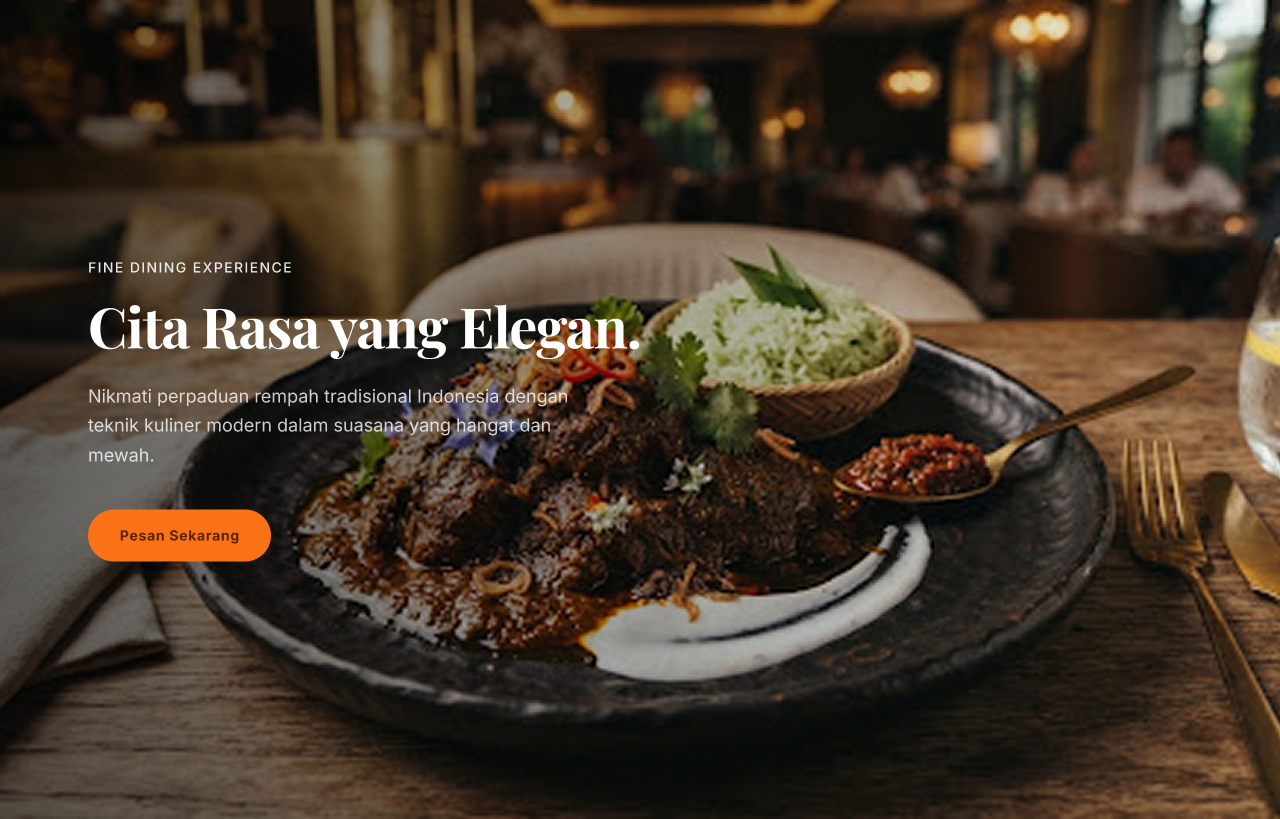
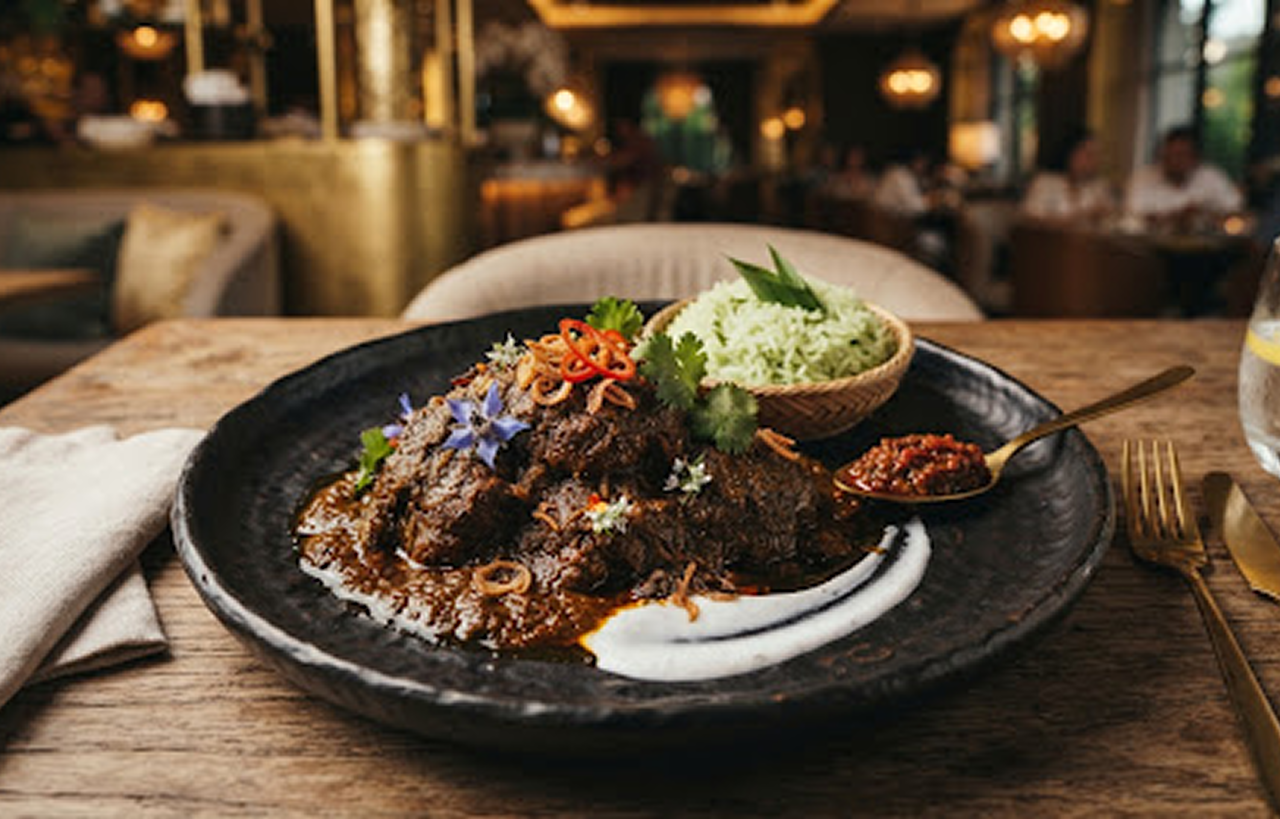
fix hero image

diff --git a/src/app/pesan/page.tsx b/src/app/pesan/page.tsx
@@ -105,7 +105,7 @@ export default function PesanPage() {
       </nav>
 
       {/* Hero */}
-      <section className="relative h-[400px] md:h-[480px] flex items-center overflow-hidden">
+      <section className="relative h-[560px] md:h-[680px] flex items-center overflow-hidden">
         <div className="absolute inset-0">
           <Image
             src="/images/hero-section.png"
@@ -115,21 +115,21 @@ export default function PesanPage() {
             priority
           />
         </div>
-        <div className="absolute inset-0 bg-gradient-to-r from-stone-900/88 via-stone-900/55 to-transparent" />
-        <div className="relative z-10 px-6 max-w-6xl mx-auto w-full">
-          <p className="text-amber-400 text-xs font-semibold tracking-widest uppercase mb-3">
+        <div className="absolute inset-0 bg-gradient-to-r from-stone-900/80 via-stone-900/40 to-transparent" />
+        <div className="relative z-10 px-8 md:px-16 max-w-6xl mx-auto w-full">
+          <p className="text-amber-400 text-xs font-semibold tracking-widest uppercase mb-4">
             Fine Dining Experience
           </p>
-          <h1 className="font-playfair text-4xl md:text-5xl font-bold text-white leading-tight mb-4">
+          <h1 className="font-playfair text-4xl md:text-6xl font-bold text-white leading-tight mb-5">
             Cita Rasa yang Elegan.
           </h1>
-          <p className="text-stone-300 text-sm max-w-xs leading-relaxed mb-8">
+          <p className="text-stone-300 text-sm md:text-base max-w-sm leading-relaxed mb-10">
             Nikmati perpaduan rempah tradisional Indonesia dengan teknik kuliner modern dalam
             suasana yang hangat dan mewah.
           </p>
           <button
             onClick={() => menuRef.current?.scrollIntoView({ behavior: "smooth" })}
-            className="text-white font-semibold px-6 py-3 rounded-full transition-opacity hover:opacity-90 text-sm"
+            className="text-white font-semibold px-7 py-3.5 rounded-full transition-opacity hover:opacity-90 text-sm"
             style={{ backgroundColor: "#F97316" }}
           >
             Pesan Sekarang
